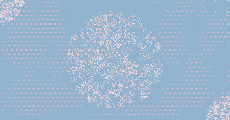
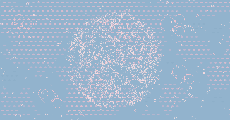
updated landscape and pattern

diff --git a/sketch.js b/sketch.js
@@ -110,7 +110,33 @@ function draw () {
 
         ellipse(x1+10, y1+10, 12, 6);
       }
-    }  
+    } 
+
+  noFill();
+  stroke(248, 198, 207);
+  ellipse(100, 100, 60, 60);
+  ellipse(120, 120, 10, 10);
+  ellipse(90, 130, 40, 40);
+  ellipse(130, 100, 20, 20);
+  ellipse(80, 80, 40, 40);
+
+  ellipse(200, 400, 60, 60);
+  ellipse(220, 420, 10, 10);
+  ellipse(180, 390, 40, 40);
+  ellipse(230, 400, 20, 20);
+  ellipse(240, 430, 40, 40);
+
+  ellipse(700, 100, 60, 60);
+  ellipse(730, 90, 10, 10);
+  ellipse(750, 130, 40, 40);
+  ellipse(730, 120, 20, 20);
+  ellipse(750, 80, 40, 40);
+
+  ellipse(750, 300, 60, 60);
+  ellipse(750, 370, 10, 10);
+  ellipse(790, 330, 40, 40);
+  ellipse(780, 320, 20, 20);
+  ellipse(770, 360, 40, 40); 
   
   // dots  
   for (i = 0; i < width; i+=spacer) {
@@ -160,7 +186,7 @@ function draw () {
 //translate(width/2, height/2);
   for (var i = 0; i < width; i++) {
     var circleAngle = random(0, TWO_PI);
-    var circleRadius = 100 * sqrt(random(0,1));
+    var circleRadius = 100 * sqrt(random(0,100));
     // Set colors
     var palette = ["#F8C6CF","#f6dce1","#eddde0 ","#f8dbe0","#92b3cd"];
     // Set dot sizes and position
@@ -194,7 +220,7 @@ function draw () {
   translate(width/2, height/2);
   for (var i = 0; i < width; i++) {
     var circleAngle = random(0, TWO_PI);
-    var circleRadius = 100 * sqrt(random(0,1));
+    var circleRadius = 100 * sqrt(random(0,100));
     // Set colors
     var palette = ["#F8C6CF","#f6dce1","#eddde0 ","#f8dbe0","#92b3cd"];
     // Set dot sizes and position
@@ -207,7 +233,6 @@ function draw () {
     stroke(palette[color]);
     ellipse(x,y,d);
   }
-
 
 
   }
@@ -238,14 +263,14 @@ function draw () {
 
 
 for (var i = locs.length - 1; i >= 0; i--) {
-    var h = calcVec( locs[i].x, locs[i].y );
+    var h = calcVec( locs[i].x - mouseX, locs[i].y - mouseY);
     strokeWeight(1);
     stroke(248, 198, 207);
     line(
       locs[i].x, 
       locs[i].y, 
-      locs[i].x + 150, 
-      locs[i].y + 50
+      locs[i].x + 150*cos(h.heading()), 
+      locs[i].y + 50*sin(h.heading())
     );
   };
 

diff --git a/README.md b/README.md
@@ -21,3 +21,7 @@ I've think I've come to a colour scheme that I really like, as with my shapes I 
 UPDATE
 
 I've been working on my landscape and finalizing the patter, some changes had to be done since bringing all the code together into one js file created some clashes. So far so good though. I've been inspired by a lot of work online and been grabbing bits of code that i could change, adapt and learn from. All of which are commented on my code. I plan to still add some last minute changes but the assignment is almost complete.
+
+UPDATE
+
+I've been working on finalizing both the pattern and the landscape for this project. Still working on the code I want to use but getting to a finalized stage.
